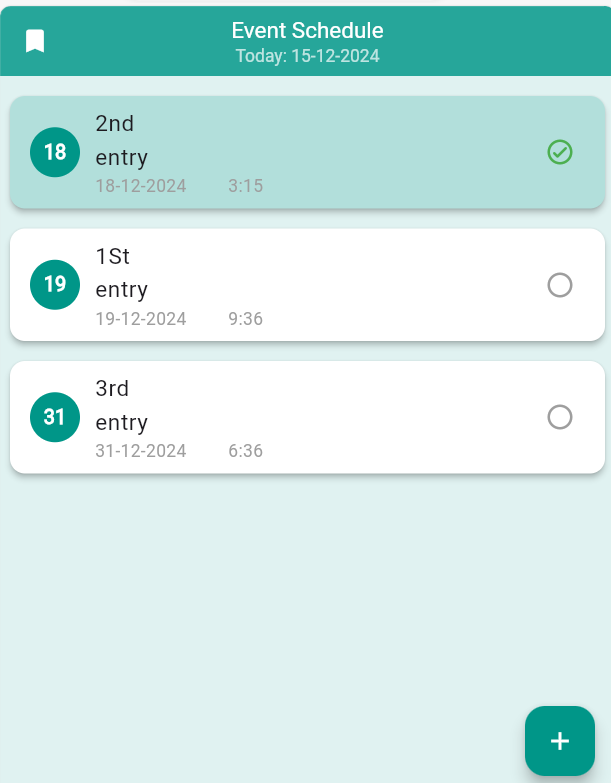
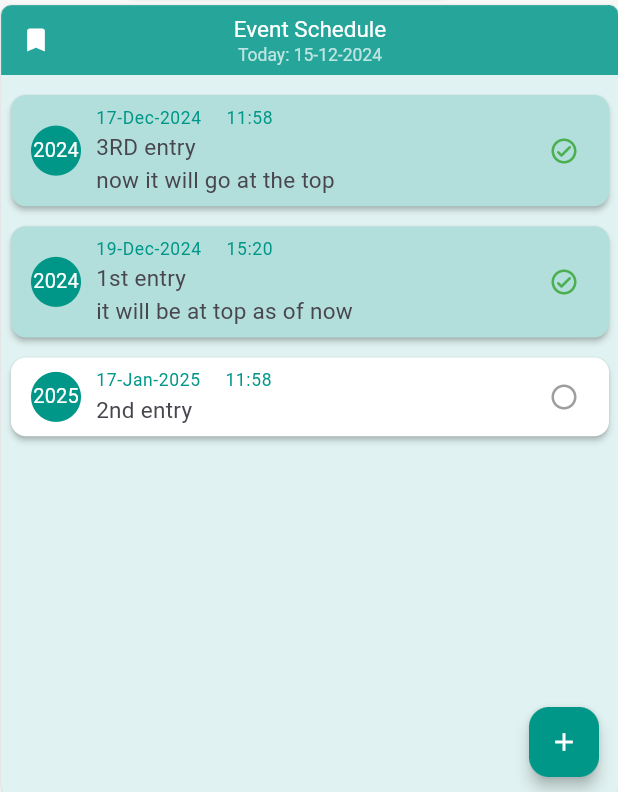
updated ss and updated code

diff --git a/lib/main.dart b/lib/main.dart
@@ -110,6 +110,8 @@ class _HomepageState extends State<Homepage> {
           final dateTime = sortedKeys[index]; // Use the sorted key
           final task = _listTask[dateTime];
           final isCompleted = _taskCompletion[dateTime] ?? false;
+          List months =
+          ['Jan', 'Feb', 'Mar', 'Apr', 'May','Jun','Jul','Aug','Sep','Oct','Nov','Dec'];
 
           return Card(
             elevation: 4,
@@ -122,25 +124,25 @@ class _HomepageState extends State<Homepage> {
               leading: CircleAvatar(
                 backgroundColor: Colors.teal,
                 child: Text(
-                  '${dateTime.day}',
+                  '${dateTime.year}',
                   style: const TextStyle(
                     color: Colors.white,
-                    fontWeight: FontWeight.bold,
                   ),
                 ),
               ),
-              title: Text(
+              subtitle: Text(
                 task!,
                 style: const TextStyle(
                   fontSize: 18,
                   fontWeight: FontWeight.w500,
                 ),
               ),
-              subtitle: Text(
-                '${dateTime.day}-${dateTime.month}-${dateTime.year}         ${dateTime.hour}:${dateTime.minute}',
+              title: Text(
+                '${dateTime.day}-${months[dateTime.month-1]}-${dateTime.year}     ${dateTime.hour}:${dateTime.minute}',
                 style: const TextStyle(
                   fontSize: 14,
-                  color: Colors.grey,
+                  fontWeight: FontWeight.w500,
+                  color: Colors.teal,
                 ),
               ),
               onLongPress: () {

diff --git a/README.md b/README.md
@@ -18,6 +18,3 @@ A simple yet functional Flutter app for scheduling and managing tasks. Create ta
 
 ### Add Task Page
 <img src="photos/images/secondpage.png" width="400" alt="Add Task page where users input task description and date"/>
-
-### Calendar Picker
-<img src="photos/images/calender.png" width="400" alt="Calendar picker to select date and time for tasks"/>
